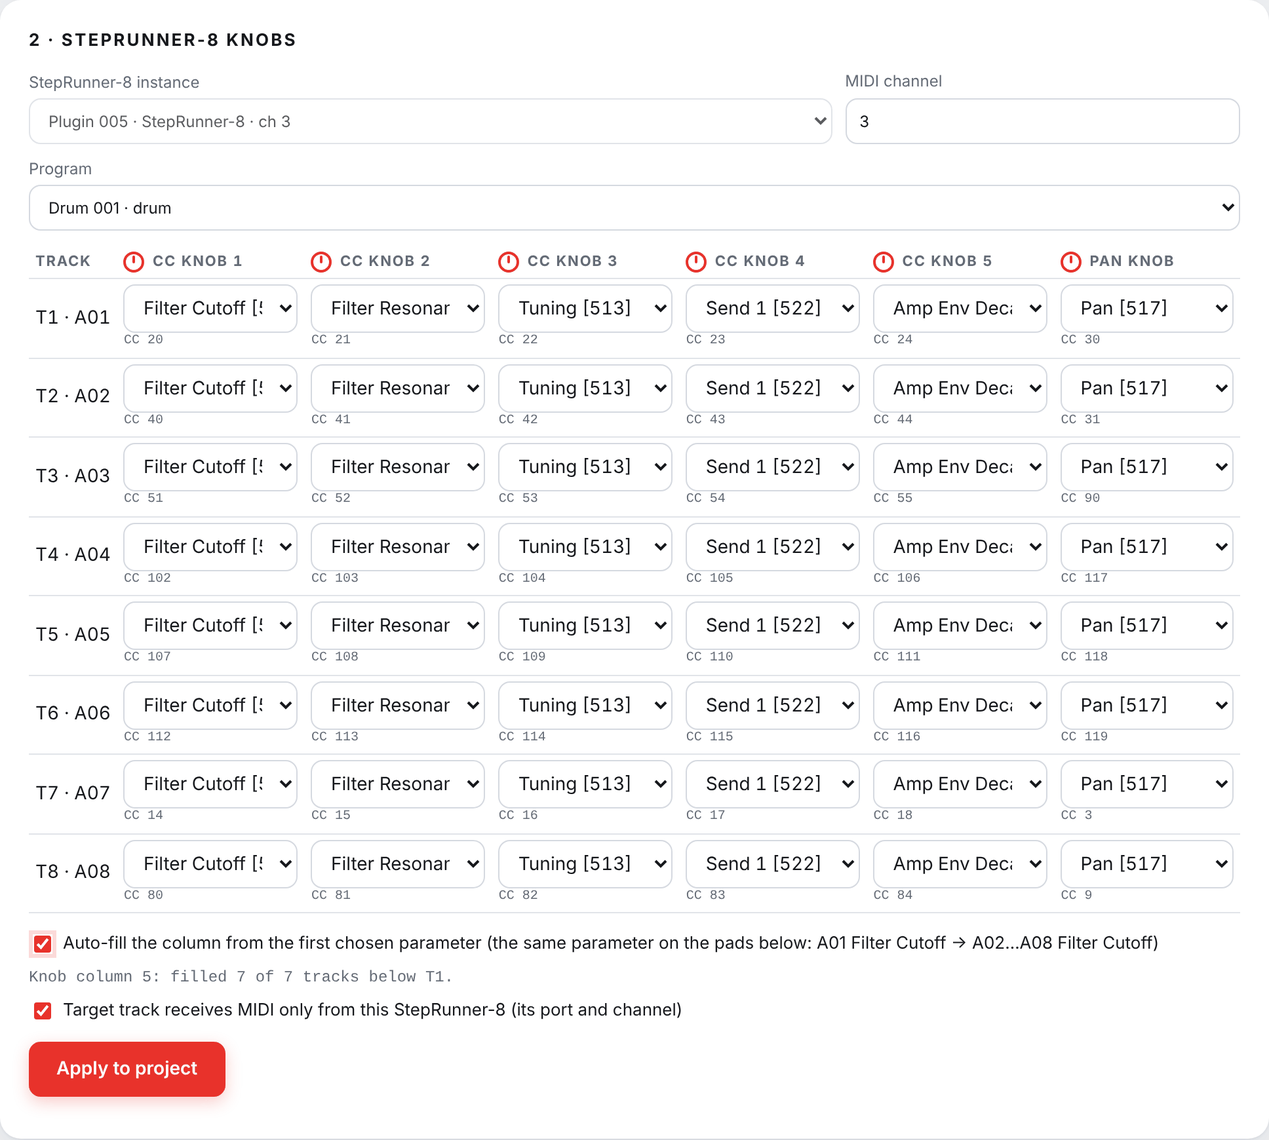
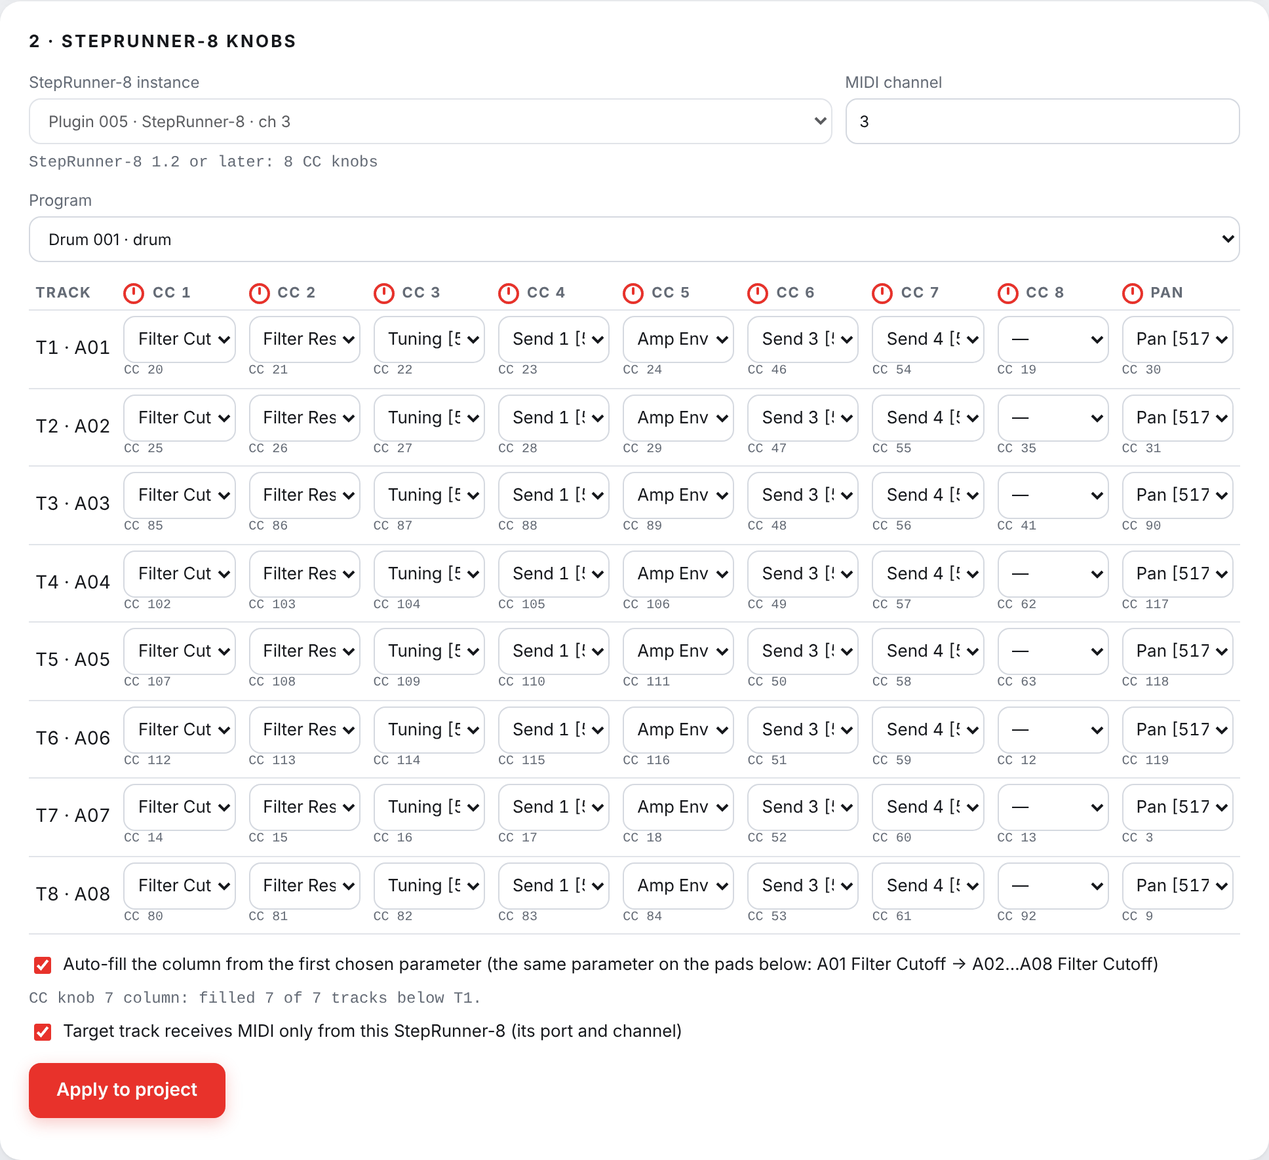
Mapper: StepRunner-8 1.2 support (8 CC knobs)

diff --git a/docs/mpcmap.html b/docs/mpcmap.html
@@ -89,6 +89,8 @@ input[type=checkbox]{accent-color:var(--acc)}
 .hero .brand .logo em{color:var(--acc);font-style:italic}
 .hero .brand .tool{font-size:13px;font-weight:700;letter-spacing:.32em;text-transform:uppercase;color:#a9adb5}
 .hero .sub{margin-top:10px}
+.v1 .kx{display:none!important}
+#pgrid select,#drgrid select{font-size:13px;padding-left:6px;padding-right:2px;min-width:72px}
 </style>
 </head>
 <body>
@@ -116,6 +118,7 @@ input[type=checkbox]{accent-color:var(--acc)}
     <label class="wide">StepRunner-8 instance<select id="srinst"></select></label>
     <label>MIDI channel<input id="tsch2" type="number" min="1" max="16" value="1" placeholder="mixed" aria-label="MIDI channel for all tracks"></label>
   </div>
+  <div class="info" id="verinfo" style="margin:-4px 0 10px"></div>
   <div class="grid">
     <label class="wide">Program<select id="track"></select></label>
   </div>
@@ -156,7 +159,7 @@ input[type=checkbox]{accent-color:var(--acc)}
     <div class="row" style="margin-top:10px">
       <button id="tsReset">Read CCs and channels from project</button>
       <button id="tsDefault">Use default CCs</button>
-      <span class="info">Default = StepRunner-8 factory numbers, MIDI channel 1 (CC BASE 20, 25, 85, 102, 107, 112, 14, 80; Pan 30, 31, 90, 117, 118, 119, 3, 9)</span>
+      <span class="info">Default = StepRunner-8 factory numbers, MIDI channel 1 (CC BASE 20, 25, 85, 102, 107, 112, 14, 80; CC 6: 46–53; CC 7: 54–61; CC 8: 19, 35, 41, 62, 63, 12, 13, 92; Pan 30, 31, 90, 117, 118, 119, 3, 9)</span>
     </div>
   </details>
 </section>
@@ -272,6 +275,8 @@ async function load(file,handle){
        fw:text.split('\n')[1]||'?',sr:srs,
        trk:(data.tracks||[]).map(t=>{const pm=((t.program||{}).padNoteMap||{}).noteForPad||{},plug=!!(t.program&&t.program.plugin);
          return {name:t.name,route:t.midiInputRoute,notes:[0,1,2,3,4,5,6,7].map(i=>Number.isInteger(pm['value'+i])?pm['value'+i]:plug?i:36+i)}}),pend:{}};
+    S.pnames={};for(const r of S.rows){const q=r.obj.control.targetData[0]||{},m=/^(.*) \((.*)\)$/.exec(r.obj.control.name||'');
+      if(q.instrumentIndex===256&&q.parameter>=4096&&m&&m[1]===q.track)(S.pnames[q.track]=S.pnames[q.track]||{})[q.parameter]=m[2]}
     srFill();srUse(0);
     $('info').textContent=`${S.name} · firmware ${S.fw} · ${gz?'gzip':'uncompressed'} · ${(text.length/1e6).toFixed(1)} MB · drum programs: ${tracks.length} · plugin tracks: ${Object.keys(plug).length}`;
     $('track').innerHTML=tracks.map(t=>`<option value="${esc(t)}">${esc(t)} · drum</option>`).join('')+Object.keys(plug).map(t=>`<option value="${esc(t)}">${esc(t)} · ${esc(plug[t])}</option>`).join('');
@@ -280,7 +285,7 @@ async function load(file,handle){
     {const any=tracks.length+Object.keys(plug).length;msg($('loadmsg'),any?'':'The project has no drum programs or plugin tracks; mappings can only be viewed and deleted.',any?'':'warn')}
     if(S.fw!=='3.9.1.2')msg($('loadmsg'),`The format was verified on firmware 3.9.1.2; this project was saved on ${S.fw}. Try it on a copy first.`,'warn');
     msg($('savemsg'),handle?'':'This browser cannot write over the file (or the file was dropped); use "Download as new file".','warn');
-    msg($('tsmsg'),'');tsMode();noteLbl();render();
+    msg($('tsmsg'),'');srTarget();tsMode();noteLbl();render();
   }catch(e){S=null;for(const id of ['tsSec','ccSec','listSec','saveSec','support'])$(id).hidden=true;$('info').textContent='';msg($('loadmsg'),'Error: '+e.message,'err')}
 }
 
@@ -293,7 +298,7 @@ function render(){
   S.rows.forEach((r,i)=>{
     const t=r.obj.control.targetData[0]||{},m=r.obj.mapping,tr=document.createElement('tr');
     const p=byId.get(t.parameter);
-    const pl=t.instrumentIndex===256&&t.parameter>=4096?(PLUG[S.plug[t.track]]||[])[t.parameter-4096]:null;
+    const pl=t.instrumentIndex===256&&t.parameter>=4096?(((S.pnames||{})[t.track]||{})[t.parameter]||(PLUG[S.plug[t.track]]||[])[t.parameter-4096]):null;
     const where=t.instrumentIndex===256?'plugin':t.instrumentIndex===257?'whole track':'Pad › '+padName(t.instrumentIndex||0);
     const tp=t.instrumentIndex===257?trackParam(t.parameter):null;
     const cells=[t.track,where,t.instrumentIndex===256?(pl||r.obj.control.name):(tp?tp[1]:(p?p[1]:r.obj.control.name)),t.parameter,m.channel];
@@ -344,24 +349,32 @@ async function save(over){
 const TS_BASE=[20,25,85,102,107,112,14,80];
 // Knob 6 (PAN): fixed CC per StepRunner-8 track, independent of CC BASE.
 const PAN_CC=[30,31,90,117,118,119,3,9];
-const ccOf=(bs,t,k)=>k<5?bs[t]+k:PAN_CC[t];
-const KN=[0,1,2,3,4,5];
+// v1.2.0: CC 6 / 7 = 46 + t / 54 + t, CC 8 = CC8_DEF[t]. Knob ids: 0-4 CC 1-5, 5 Pan, 6-8 CC 6-8.
+const CC8_DEF=[19,35,41,62,63,12,13,92];
+const ccOf=(bs,t,k)=>k<5?bs[t]+k:k===5?PAN_CC[t]:k===6?46+t:k===7?54+t:CC8_DEF[t];
+const K9=[0,1,2,3,4,5,6,7,8];          // every knob id (data arrays are indexed by id)
+const ALLK=[0,1,2,3,4,6,7,8,5];        // display order: CC 1-8, then Pan
+const KN_V1=[0,1,2,3,4,5];
+let KN=ALLK;                           // the knobs of the StepRunner-8 version in use (8 CC from v1.2.0, 5 before)
+const KL=k=>k===5?'Pan knob':'CC knob '+(k<5?k+1:k);
+const kx=k=>k>5?' class="kx"':'';
+const KH=k=>k===5?'Pan':'CC '+(k<5?k+1:k);   // short column headers (nine columns must fit)
 // Grupe kako ih MPC prikazuje u MIDI Learn > TARGET za pad drum programa (procitano sa uredjaja, firmware 3.9.1.2).
 const MIXER_IDS=[518,517,526,527,522,523,524,525];
 const TRACK_IDS=new Set([132, 133, 513, 514, 515, 516, 519, 520, 521, 528, 529, 531, 532, 533, 534, 535, 537, 538, 539, 540, 541, 542, 543, 544, 545, 546, 547, 548, 549, 550, 551, 552, 553, 621, 622, 623, 637, 990, 991, 992, 993, 994, 995, 996, 997, 998, 1000, 1001, 1002, 1003, 1004, 1005, 1006, 1007, 1009, 1010, 1011, 1012, 1013, 1014, 1015, 1016, 1039, 1040, 1043, 1044, 1047, 1048, 1051, 1052, 1055, 1056, 1059, 1060, 1063, 1064, 1067, 1068, 1079, 1080, 1081, 1082, 1084, 1085, 1086, 1087, 1088, 1089, 1090, 1092, 1093, 1094, 1095, 1096, 1118, 1119, 1120, 1121, 1138, 1139, 1140, 1141, 1142, 1143, 1144, 1145, 1167, 1168, 1169, 1170, 1171, 1172, 1173, 1174, 1178, 1179, 1180, 1181, 1182, 1183, 1184, 1185, 1186, 1187, 1188, 1189, 1190, 1191, 1192, 1193, 1194, 1195, 1196, 1197, 1198, 1199, 1200, 1201, 1202, 1203, 1204, 1205, 1206, 1219, 1220, 1221, 1222, 1223, 1224, 1234, 1235, 1236, 1237, 1241, 1242, 1285, 1286, 1287, 1288, 3081, 3082, 3085, 3086, 3089, 3090, 3093, 3094, 3097, 3098, 3101, 3102, 3105, 3106, 3109, 3110, 3111, 3112, 3113, 3114, 3131, 3132, 3133, 3134, 3135, 3136, 3137, 3138, 3139, 3140, 3141, 3142, 3143, 3144, 3145, 3146, 3147, 3148, 3149, 3150, 3151, 3152, 3153, 3154, 3155, 3156, 3157, 3158, 3159, 3160, 3161, 3162, 3163, 3164, 3165, 3166, 3167, 3168, 3169, 3170, 3179, 3180, 3181, 3224, 3225, 3226, 3227, 3228, 3229, 3230, 3231, 3232, 3233, 3234, 3235, 3236, 3237, 3238, 3239, 3240, 3241, 3242, 3243, 3244, 3245, 3246, 3247, 3248, 3249, 3250, 3251, 3252, 3253, 3254, 3255, 3256, 3257, 3258, 3259, 3260, 3261, 3262, 3263, 3264, 3265, 3266, 3267, 3268, 3269, 3270, 3271, 3272, 3273, 3274, 3275, 3276, 3277, 3278, 3279, 3404, 3405, 3406, 3407, 3408, 3409, 3410, 3411, 3412, 3413, 3414, 3415, 3416, 3417, 3418, 3419]);
 const GROUPS=['Mixer','Track','Not in the MPC menu for drum programs'];
 const pgrp=i=>MIXER_IDS.includes(i)?0:TRACK_IDS.has(i)?1:2;
-$('knobs').innerHTML=KN.map(k=>`<div class="knob"><b><span class="dial"></span>${k<5?'CC KNOB '+(k+1):'PAN KNOB'}</b>
+$('knobs').innerHTML=ALLK.map(k=>`<div class="knob"><b><span class="dial"></span>${KL(k).toUpperCase()}</b>
   <select id="kn${k}" aria-label="Parameter for knob ${k+1}"><option value="">— not mapped —</option>${GROUPS.map((g,gi)=>`<optgroup label="${g}">${PARAMS.filter(p=>pgrp(p[0])===gi).map(p=>`<option value="${p[0]}">${p[1]} [${p[0]}]</option>`).join('')}</optgroup>`).join('')}</select>
   <div class="info" id="kni${k}"></div></div>`).join('');
 // CC setup: one CC number per track and knob. Defaults = StepRunner-8's factory numbers; replaced by the numbers
 // read from the StepRunner-8 plugin in the project, when there is one.
-const CC_DEF=[0,1,2,3,4,5,6,7].map(t=>KN.map(k=>ccOf(TS_BASE,t,k)));
+const CC_DEF=[0,1,2,3,4,5,6,7].map(t=>K9.map(k=>ccOf(TS_BASE,t,k)));
 let CC_SRC=CC_DEF;   // what "Read CCs from project" goes back to
 const CH_DEF=Array(8).fill(1);let CH_SRC=CH_DEF;
 $('ccgrid').innerHTML='<thead><tr><th></th>'+[0,1,2,3,4,5,6,7].map(t=>`<th>T${t+1} · ${padName(t)}</th>`).join('')+'</tr></thead><tbody>'+
   '<tr class="chrow"><td>MIDI channel</td>'+[0,1,2,3,4,5,6,7].map(t=>`<td><input id="chn${t}" type="number" min="1" max="16" value="1" aria-label="Track ${t+1} MIDI channel"></td>`).join('')+'</tr>'+
-  KN.map(k=>`<tr><td>${k<5?'CC knob '+(k+1):'Pan knob'}</td>`+[0,1,2,3,4,5,6,7].map(t=>`<td><input id="cc${t}_${k}" type="number" min="0" max="127" value="${CC_DEF[t][k]}" aria-label="Track ${t+1}, ${k<5?'CC knob '+(k+1):'Pan knob'} CC number"></td>`).join('')+'</tr>').join('')+'</tbody>';
+  ALLK.map(k=>`<tr${kx(k)}><td>${KL(k)}</td>`+[0,1,2,3,4,5,6,7].map(t=>`<td><input id="cc${t}_${k}" type="number" min="0" max="127" value="${CC_DEF[t][k]}" aria-label="Track ${t+1}, ${KL(k)} CC number"></td>`).join('')+'</tr>').join('')+'</tbody>';
 const ccv=(t,k)=>+$('cc'+t+'_'+k).value;
 const ccAll=()=>[0,1,2,3,4,5,6,7].flatMap(t=>KN.map(k=>ccv(t,k)));
 const chv=t=>+$('chn'+t).value;   // MIDI channel 1..16 of StepRunner-8 track t
@@ -387,15 +400,17 @@ function srReadAll(tracks){   // -> [{name, plugin, cc[8][6], ch[8]}] for every 
       const len=(b[156]<<24|b[157]<<16|b[158]<<8|b[159])>>>0;
       let txt=new TextDecoder('latin1').decode(b.slice(160,160+len));txt=txt.split('\0')[0];
       if(!/^TSq[23]/.test(txt))continue;
-      const base=[...TS_BASE],own=[...Array(8)].map(()=>[0,0,0,0,0]),ch=Array(8).fill(0);
+      const base=[...TS_BASE],own=[...Array(8)].map(()=>Array(8).fill(0)),ch=Array(8).fill(0);let v2=false;
       for(const l of txt.split('\n')){   // only the lines of the pattern playing (no "V../Z.." prefix)
         let m=/^t (\d) (\d+) (\d+) (\d+) (\d+) (\d+) (\d+) (\d+)(?: (\d+))?/.exec(l);
-        if(m&&+m[1]<8){base[+m[1]]=m[9]!==undefined?+m[9]:20;ch[+m[1]]=+m[4];own[+m[1]]=[0,0,0,0,0];continue}
-        m=/^C (\d) (\d+) (\d+) (\d+) (\d+) (\d+)/.exec(l);
-        if(m&&+m[1]<8)own[+m[1]]=[2,3,4,5,6].map(i=>+m[i]);
+        if(m&&+m[1]<8){base[+m[1]]=m[9]!==undefined?+m[9]:20;ch[+m[1]]=+m[4];own[+m[1]]=Array(8).fill(0);continue}
+        m=/^C (\d)((?: \d+){5,8})/.exec(l);
+        if(m&&+m[1]<8){const x=m[2].trim().split(' ').map(Number);own[+m[1]]=K9.slice(0,8).map(j=>x[j]||0);continue}
+        if(/^e /.test(l)&&l.trim().split(/\s+/).length>=16)v2=true;   // v1.2.0 writes six more numbers on every e line
       }
-      const cc=[0,1,2,3,4,5,6,7].map(i=>KN.map(k=>k<5?(own[i][k]?(own[i][k]-1)&127:Math.min(base[i],123)+k):PAN_CC[i]));
-      out.push({name:t.name,plugin:d.name,cc,ch,ti:tracks.indexOf(t),state:pl.state,isSR:d.uid===SR_UID||d.name==='StepRunner-8'});
+      const cc=[0,1,2,3,4,5,6,7].map(i=>K9.map(k=>{if(k===5)return PAN_CC[i];if(k>5&&!v2)return null;const j=k<5?k:k-1;
+        return own[i][j]?(own[i][j]-1)&127:k<5?Math.min(base[i],123)+k:ccOf(TS_BASE,i,k)}));
+      out.push({name:t.name,plugin:d.name,cc,ch,v2,ti:tracks.indexOf(t),state:pl.state,isSR:d.uid===SR_UID||d.name==='StepRunner-8'});
     }catch(e){}
   }
   let slot=0;for(const r of out)if(r.isSR)r.slot=slot++;   // ALSA names follow load order: "StepRunner-8", "StepRunner-8 2", ...
@@ -437,8 +452,18 @@ function srFill(){
   $('srinst').innerHTML=S.sr.length?S.sr.map((r,i)=>`<option value="${i}">${esc(r.name)} · ${esc(r.plugin)} · ${chText(r)}</option>`).join(''):'<option value="-1">none in this project (default CCs)</option>';
   $('srinst').disabled=S.sr.length<2;
 }
+function setVer(v2){   // 8 CC knobs (StepRunner-8 1.2.0 and later) or 5
+  KN=v2?ALLK:KN_V1;
+  for(const id of ['tsSec','ccSec'])$(id).classList.toggle('v1',!v2);
+  $('verinfo').textContent=v2?'StepRunner-8 1.2 or later: 8 CC knobs':'StepRunner-8 1.1 or earlier: 5 CC knobs';
+}
+function srTarget(){   // pick the program that already listens to the chosen StepRunner-8 (its MIDI input is that port)
+  const sr=S.sr[+$('srinst').value];if(!sr||!sr.isSR)return;
+  const t=S.trk.find(x=>x.route&&x.route.inputPort&&x.route.inputPort.deviceName===srPort(sr)&&[...$('track').options].some(o=>o.value===x.name));
+  if(t)$('track').value=t.name;
+}
 function srUse(i){   // load the CC numbers and channel of instance i into CC setup
-  const sr=S.sr[i];
+  const sr=S.sr[i];setVer(sr?sr.v2:true);
   if(!sr){CC_SRC=CC_DEF;CH_SRC=CH_DEF;ccSet(CC_DEF);chSet(CH_DEF);msg($('srinfo'),'No StepRunner-8 in this project: StepRunner-8 default CC numbers are used.','');return}
   CC_SRC=sr.cc;CH_SRC=sr.ch.map(c=>c+1);ccSet(sr.cc);
   chSet(sr.ch.map(c=>c+1));srInfo(i);
@@ -449,8 +474,8 @@ function srInfo(i){   // the message above CC setup, from the instances as they 
   let cls='ok';
   if(S.sr.length>1)txt=`${S.sr.length} StepRunner-8 instances in this project. `+txt;
   // two instances on the same channel with a shared CC number cannot be told apart by MPC
-  const mine=new Set(sr.cc.flatMap((r,t)=>r.map(c=>sr.ch[t]+':'+c)));
-  const clash=S.sr.filter((o,j)=>j!==i&&o.cc.some((r,t)=>r.some(c=>mine.has(o.ch[t]+':'+c)))).map(o=>o.name);
+  const mine=new Set(sr.cc.flatMap((r,t)=>r.filter(c=>c!==null).map(c=>sr.ch[t]+':'+c)));
+  const clash=S.sr.filter((o,j)=>j!==i&&o.cc.some((r,t)=>r.some(c=>c!==null&&mine.has(o.ch[t]+':'+c)))).map(o=>o.name);
   if(clash.length){txt+=` Warning: ${clash.join(', ')} sends some of the same CC numbers on the same channel; MPC cannot tell them apart, so a mapping reacts to both.`;cls='warn'}
   msg($('srinfo'),txt,cls);
 }
@@ -475,23 +500,27 @@ function tsCheck(){
   return '';
 }
 function tsPreview(){
-  for(const k of KN)$('kni'+k).textContent=[0,1,2,3,4,5,6,7].map(t=>padName(t)+' CC'+ccv(t,k)).join(' · ');
+  for(const e of document.querySelectorAll('#drgrid select,#pgrid select'))e.title=e.value?e.selectedOptions[0].textContent:'';   // the full name, when the cell is too narrow
+  for(const k of KN)if($('kni'+k))$('kni'+k).textContent=[0,1,2,3,4,5,6,7].map(t=>padName(t)+' CC'+ccv(t,k)).join(' · ');
   for(let t=0;t<8;t++)for(const k of KN){const e=$('pgc'+t+'_'+k);if(e)e.textContent='CC '+ccv(t,k);$('dkc'+t+'_'+k).textContent='CC '+ccv(t,k)}
   const pa=pairAll();let bad=false;for(let t=0;t<8;t++)for(const k of KN){const b=pa.filter(v=>v===pair(t,k)).length>1;$('cc'+t+'_'+k).classList.toggle('bad',b);bad=bad||b}
   if(bad)$('ccsetup').open=true;
   const e=tsCheck();$('tsApply').disabled=!!e;if(e)msg($('tsmsg'),e,'err');else if($('tsmsg').className.includes('err'))msg($('tsmsg'),'');
 }
 const isPlug=()=>!!(S&&S.plug[$('track').value]);
-const plugNames=()=>PLUG[S.plug[$('track').value]]||[];
-const pgVals=()=>[0,1,2,3,4,5,6,7].map(t=>KN.map(k=>$('pg'+t+'_'+k)?$('pg'+t+'_'+k).value:''));
+// Parameter names: the probed list, with the names MPC itself wrote into this project's mappings on top. Some plugins
+// (DrumSynth) name a parameter after the slot's current model ("6 Noise" is "6 Spike" on another model); same id.
+const plugNames=()=>{const tr=$('track').value,base=PLUG[S.plug[tr]]||[],ov=(S.pnames||{})[tr];
+  return ov?base.map((n,i)=>ov[4096+i]||n):base};
+const pgVals=()=>[0,1,2,3,4,5,6,7].map(t=>K9.map(k=>KN.includes(k)&&$('pg'+t+'_'+k)?$('pg'+t+'_'+k).value:''));
 function pgOptions(group){
   return '<option value="">—</option>'+plugNames().map((n,i)=>[n,i]).filter(([n])=>n&&(!group||n.startsWith(group+' '))).map(([n,i])=>`<option value="${4096+i}">${esc(n)}</option>`).join('');
 }
 function pgBuild(){
-  $('pgrid').innerHTML='<thead><tr><th>Track</th>'+[1,2,3,4,5].map(k=>`<th class="kh"><span class="dial"></span>CC knob ${k}</th>`).join('')+'<th class="kh"><span class="dial"></span>Pan knob</th>'+'</tr></thead><tbody>'+
+  $('pgrid').innerHTML='<thead><tr><th>Track</th>'+ALLK.map(k=>`<th class="kh${k>5?' kx':''}"><span class="dial"></span>${KH(k)}</th>`).join('')+'</tr></thead><tbody>'+
     [0,1,2,3,4,5,6,7].map(t=>`<tr><td>T${t+1}</td>`+
-      KN.map(k=>`<td><select id="pg${t}_${k}" aria-label="Track ${t+1}, knob ${k+1}">${pgOptions('')}</select><span class="cc" id="pgc${t}_${k}"></span></td>`).join('')+'</tr>').join('')+'</tbody>';
-  for(let t=0;t<8;t++)for(const k of KN)$('pg'+t+'_'+k).onchange=()=>{autofill(t,k);tsPreview()};
+      ALLK.map(k=>`<td${kx(k)}><select id="pg${t}_${k}" aria-label="Track ${t+1}, knob ${k+1}">${pgOptions('')}</select><span class="cc" id="pgc${t}_${k}"></span></td>`).join('')+'</tr>').join('')+'</tbody>';
+  for(let t=0;t<8;t++)for(const k of ALLK)$('pg'+t+'_'+k).onchange=()=>{autofill(t,k);tsPreview()};
 }
 // Auto-fill: from the first chosen cell of a column, guess the next tracks' parameters.
 // A number in the name counts up ("Slot 1 Tune" -> "Slot 2 Tune"); without a number, the same name after the first
@@ -516,16 +545,16 @@ function autofill(t0,k){
   if(P==='dk'){for(let t=t0+1;t<8;t++){$('dk'+t+'_'+k).value=v;found++}}   // drum program: the same parameter on the pads below
   else{const seq=afSeq(+v-4096,7-t0);
   for(let j=0;j<7-t0;j++){const i=seq[j];const el=$('pg'+(t0+1+j)+'_'+k);el.value=i!==undefined&&i>=0?String(4096+i):'';if(el.value)found++}}
-  $('afinfo').textContent=`Knob column ${k<5?k+1:'Pan'}: filled ${found} of ${7-t0} tracks below T${t0+1}.`;
+  $('afinfo').textContent=`${KL(k)} column: filled ${found} of ${7-t0} tracks below T${t0+1}.`;
 }
 $('autofill').addEventListener('change',()=>{if(!$('autofill').checked)return;const P=afP();for(const k of KN)for(let t=0;t<8;t++)if($(P+t+'_'+k)&&$(P+t+'_'+k).value){autofill(t,k);break}tsPreview()});
 // ---- drum program, "different parameter per track": one list per track and knob (pad = A01..A08 as T1..T8)
 const DR_OPTS='<option value="">—</option>'+GROUPS.map((g,gi)=>`<optgroup label="${g}">${PARAMS.filter(p=>pgrp(p[0])===gi).map(p=>`<option value="${p[0]}">${esc(p[1])} [${p[0]}]</option>`).join('')}</optgroup>`).join('');
-$('drgrid').innerHTML='<thead><tr><th>Track</th>'+[1,2,3,4,5].map(k=>`<th class="kh"><span class="dial"></span>CC knob ${k}</th>`).join('')+'<th class="kh"><span class="dial"></span>Pan knob</th></tr></thead><tbody>'+
-  [0,1,2,3,4,5,6,7].map(t=>`<tr><td>T${t+1} · ${padName(t)}</td>`+KN.map(k=>`<td><select id="dk${t}_${k}" aria-label="Track ${t+1}, knob ${k+1}">${DR_OPTS}</select><span class="cc" id="dkc${t}_${k}"></span></td>`).join('')+'</tr>').join('')+'</tbody>';
-for(let t=0;t<8;t++)for(const k of KN)$('dk'+t+'_'+k).addEventListener('change',()=>{autofill(t,k);tsPreview()});
+$('drgrid').innerHTML='<thead><tr><th>Track</th>'+ALLK.map(k=>`<th class="kh${k>5?' kx':''}"><span class="dial"></span>${KH(k)}</th>`).join('')+'</tr></thead><tbody>'+
+  [0,1,2,3,4,5,6,7].map(t=>`<tr><td>T${t+1} · ${padName(t)}</td>`+ALLK.map(k=>`<td${kx(k)}><select id="dk${t}_${k}" aria-label="Track ${t+1}, knob ${k+1}">${DR_OPTS}</select><span class="cc" id="dkc${t}_${k}"></span></td>`).join('')+'</tr>').join('')+'</tbody>';
+for(let t=0;t<8;t++)for(const k of ALLK)$('dk'+t+'_'+k).addEventListener('change',()=>{autofill(t,k);tsPreview()});
 const perTrack=()=>true;   // drum programs: always one parameter per track and knob (auto-fill copies it down)
-const dkVals=()=>[0,1,2,3,4,5,6,7].map(t=>KN.map(k=>$('dk'+t+'_'+k).value));
+const dkVals=()=>[0,1,2,3,4,5,6,7].map(t=>K9.map(k=>KN.includes(k)?$('dk'+t+'_'+k).value:''));
 function drShow(){$('knobs').hidden=perTrack();$('drgridw').hidden=!perTrack()}
 $('drmode').addEventListener('change',()=>{
   if(perTrack()){for(let t=0;t<8;t++)for(const k of KN)$('dk'+t+'_'+k).value=$('kn'+k).value}   // start from the shared choice
@@ -613,15 +642,15 @@ function tsApply(){
     (extra.length?extra.map(x=>x[0].toUpperCase()+x.slice(1)).join('. ')+'. ':'')+'Not saved to the file yet.',warn?'warn':'ok');
   render();
 }
-for(const k of KN)$('kn'+k).addEventListener('change',tsPreview);
+for(const k of ALLK)$('kn'+k).addEventListener('change',tsPreview);
 $('kn5').value='517';for(let t=0;t<8;t++)$('dk'+t+'_5').value='517';
-for(let t=0;t<8;t++)for(const k of KN)$('cc'+t+'_'+k).addEventListener('input',tsPreview);
+for(let t=0;t<8;t++)for(const k of ALLK)$('cc'+t+'_'+k).addEventListener('input',tsPreview);
 for(const id of ['tsch','tsch2'])$(id).addEventListener('input',()=>{const v=+$(id).value;if(Number.isInteger(v)&&v>=1&&v<=16){for(let t=0;t<8;t++)$('chn'+t).value=v;$(id==='tsch'?'tsch2':'tsch').value=v}tsPreview()});
 for(let t=0;t<8;t++){$('chn'+t).addEventListener('input',()=>{chTop();tsPreview()})}
 $('track').addEventListener('change',()=>{if(S){tsMode();noteLbl()}});
 $('tsApply').onclick=tsApply;
 $('tsReset').onclick=()=>{ccSet(CC_SRC);chSet(CH_SRC);tsPreview()};
-$('srinst').addEventListener('change',()=>{srUse(+$('srinst').value);if(S)tsFromProject()});
+$('srinst').addEventListener('change',()=>{srUse(+$('srinst').value);if(S){srTarget();tsMode();noteLbl()}});
 $('tsDefault').onclick=()=>{ccSet(CC_DEF);chSet(CH_DEF);tsPreview()};
 tsPreview();
 

diff --git a/docs/MAPPER.md b/docs/MAPPER.md
@@ -69,14 +69,26 @@ At the top of section **2 · StepRunner-8 knobs**:
 - **MIDI channel:** the channel StepRunner-8 sends on, for all eight tracks at once. It shows *mixed* when the tracks
   use different channels; you can set each track separately in [CC setup](#6-cc-setup).
 - **Program:** the target track. Drum programs are marked *drum*; plugin tracks show the plugin's name
-  (for example *Plugin 004 · 9W9*). StepRunner-8 tracks themselves are not listed.
+  (for example *Plugin 004 · 9W9*). StepRunner-8 tracks themselves are not listed. If a track already receives MIDI
+  from the chosen StepRunner-8 (its MIDI input is that StepRunner-8's port), it is selected for you.
+
+The line under the instance shows which **StepRunner-8 version** the Mapper found in the project, and so how many
+CC knobs it offers:
+
+| StepRunner-8 | CC knobs |
+|---|---|
+| 1.2 or later | **8** (CC 1–8) and the pan knob |
+| 1.1 or earlier | **5** (CC 1–5) and the pan knob |
+
+The version is recognised from the plugin's saved state; nothing has to be set. If the project has no StepRunner-8,
+the Mapper offers 8 knobs with StepRunner-8's default CC numbers.
 
 The rest of the section changes with the kind of target track you pick.
 
 ## 4. Mapping a drum program
 
-StepRunner-8 track **T1** plays pad **A01**, T2 plays A02, and so on up to T8 and A08. Each track has five CC knobs
-and a pan knob, and each knob sends its own CC number.
+StepRunner-8 track **T1** plays pad **A01**, T2 plays A02, and so on up to T8 and A08. Each track has eight CC knobs
+(five before StepRunner-8 1.2) and a pan knob, and each knob sends its own CC number.
 
 When the target is a drum program, you get a table with one row per StepRunner-8 track and its pad (T1 · A01 …
 T8 · A08) and one column per knob. Pick a pad parameter in each cell. Under each menu is the CC number that knob sends.
@@ -109,6 +121,10 @@ Under each menu is the CC number that knob sends.
 Parameter lists are built in for these plugins: **DrumSynth**, **6W6**, **8W8**, **9W9**, **Iona**, **CW-78** and
 **TR-MPC**. For any other plugin, the page says there is no parameter list for it yet.
 
+Some plugins name a parameter after what is loaded in that slot: in DrumSynth, *6 Noise* becomes *6 Spike* when the
+slot uses another model. It is the same parameter either way. Where the project already has a mapping, the Mapper
+shows the name the MPC wrote for it.
+
 ### Auto-fill
 
 Auto-fill works for drum programs and plugin instruments. **Auto-fill the column from the first chosen parameter**
@@ -134,14 +150,26 @@ already have a first value at once.
 
 Section **3 · CC setup** holds the MIDI channel and the CC numbers of every StepRunner-8 track. Click
 **Show CC numbers and channels** to open the table: tracks in columns, the MIDI channel in the first row, then
-CC knobs 1–5 and the pan knob.
+CC knobs 1–8 (1–5 for StepRunner-8 1.1 and earlier) and the pan knob.
 
 ![CC setup](mapper/06-cc-setup.png)
 
 - The numbers are **read from the chosen StepRunner-8 instance** in the project, including CC numbers you changed
   with EDIT CC. The green line above the table tells you where they came from.
 - **Read CCs and channels from project** goes back to what the project has.
-- **Use default CCs** sets StepRunner-8's factory numbers and MIDI channel 1.
+- **Use default CCs** sets StepRunner-8's factory numbers and MIDI channel 1:
+
+  | Track | Pad | CC 1–5 | CC 6 | CC 7 | CC 8 | Pan |
+  |---|---|---|---|---|---|---|
+  | T1 | A01 | 20–24 | 46 | 54 | 19 | 30 |
+  | T2 | A02 | 25–29 | 47 | 55 | 35 | 31 |
+  | T3 | A03 | 85–89 | 48 | 56 | 41 | 90 |
+  | T4 | A04 | 102–106 | 49 | 57 | 62 | 117 |
+  | T5 | A05 | 107–111 | 50 | 58 | 63 | 118 |
+  | T6 | A06 | 112–116 | 51 | 59 | 12 | 119 |
+  | T7 | A07 | 14–18 | 52 | 60 | 13 | 3 |
+  | T8 | A08 | 80–84 | 53 | 61 | 92 | 9 |
+
 - The **MIDI channel** field at the top right sets the channel for all tracks (the same field as in section 2).
 
 The MPC tells mappings apart by **channel + CC number**. Two knobs may share a CC number only if they are on
